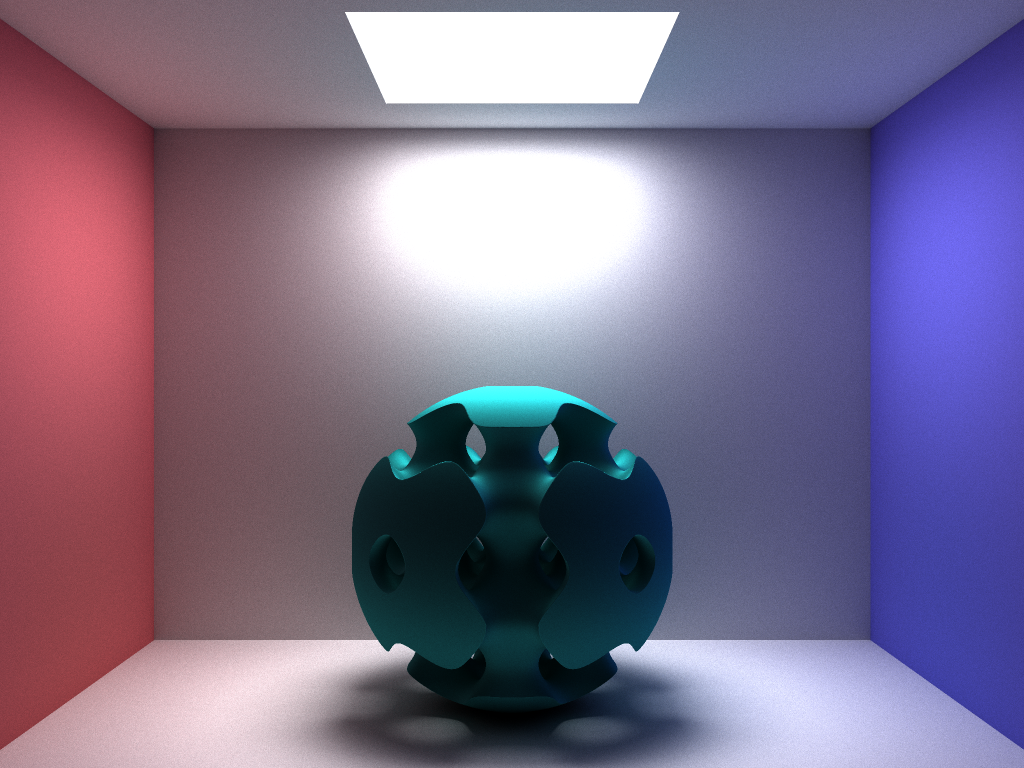
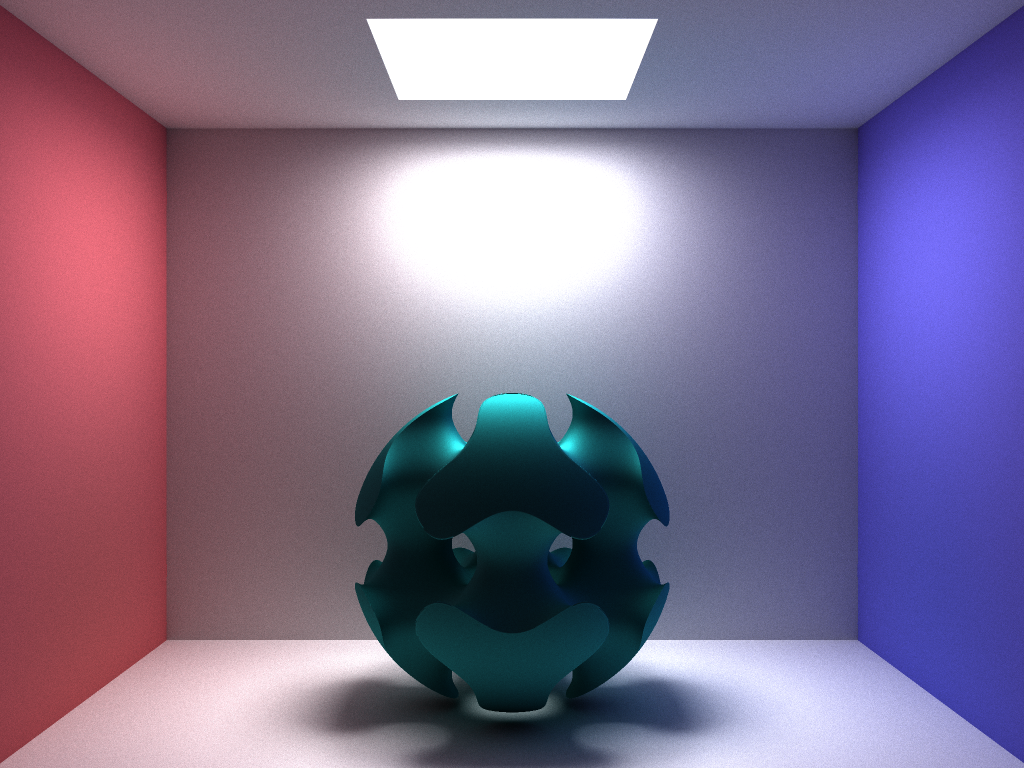
schwarz primitive

diff --git a/main.cpp b/main.cpp
@@ -66,13 +66,13 @@ int main(int argc, char *argv[])
 	NewSphere4->SetPosition(0, 50, ObjectZpos);
 
 	SchwarzPrimitive *NewSchwarzPrimitive=new SchwarzPrimitive();
-	NewSchwarzPrimitive->SetScale(5.0);
+	NewSchwarzPrimitive->SetScale(6.5);
 	NewSchwarzPrimitive->SetPosition(0, 50, ObjectZpos);
 	NewSchwarzPrimitive->SetOrientation(1, 0, 1);
 
 	Intersection *SphereSchwarzIntersection=new Intersection(NewSphere4, NewSchwarzPrimitive);
 	SphereSchwarzIntersection->SetColor(30, 130, 130);
-	SphereSchwarzIntersection->SetSpecularity(0.25);
+	// SphereSchwarzIntersection->SetSpecularity(0.25);
 
 	// ======== primitives
 	Cylinder *Cylinder2=new Cylinder();
@@ -173,11 +173,11 @@ int main(int argc, char *argv[])
 
 	// NewScene->AddObject(Construct);
 	// NewScene->AddObject(SphereGyroidIntersection);
-	// NewScene->AddObject(SphereSchwarzIntersection);
+	NewScene->AddObject(SphereSchwarzIntersection);
 
-	NewScene->AddObject(BlueSphere);
-	NewScene->AddObject(RedSphere);
-	NewScene->AddObject(GreenSphere);
+	// NewScene->AddObject(BlueSphere);
+	// NewScene->AddObject(RedSphere);
+	// NewScene->AddObject(GreenSphere);
 	// NewScene->AddObject(Cylinder2);
 	// NewScene->AddObject(Cube2);
 	// NewScene->AddObject(Torus1);